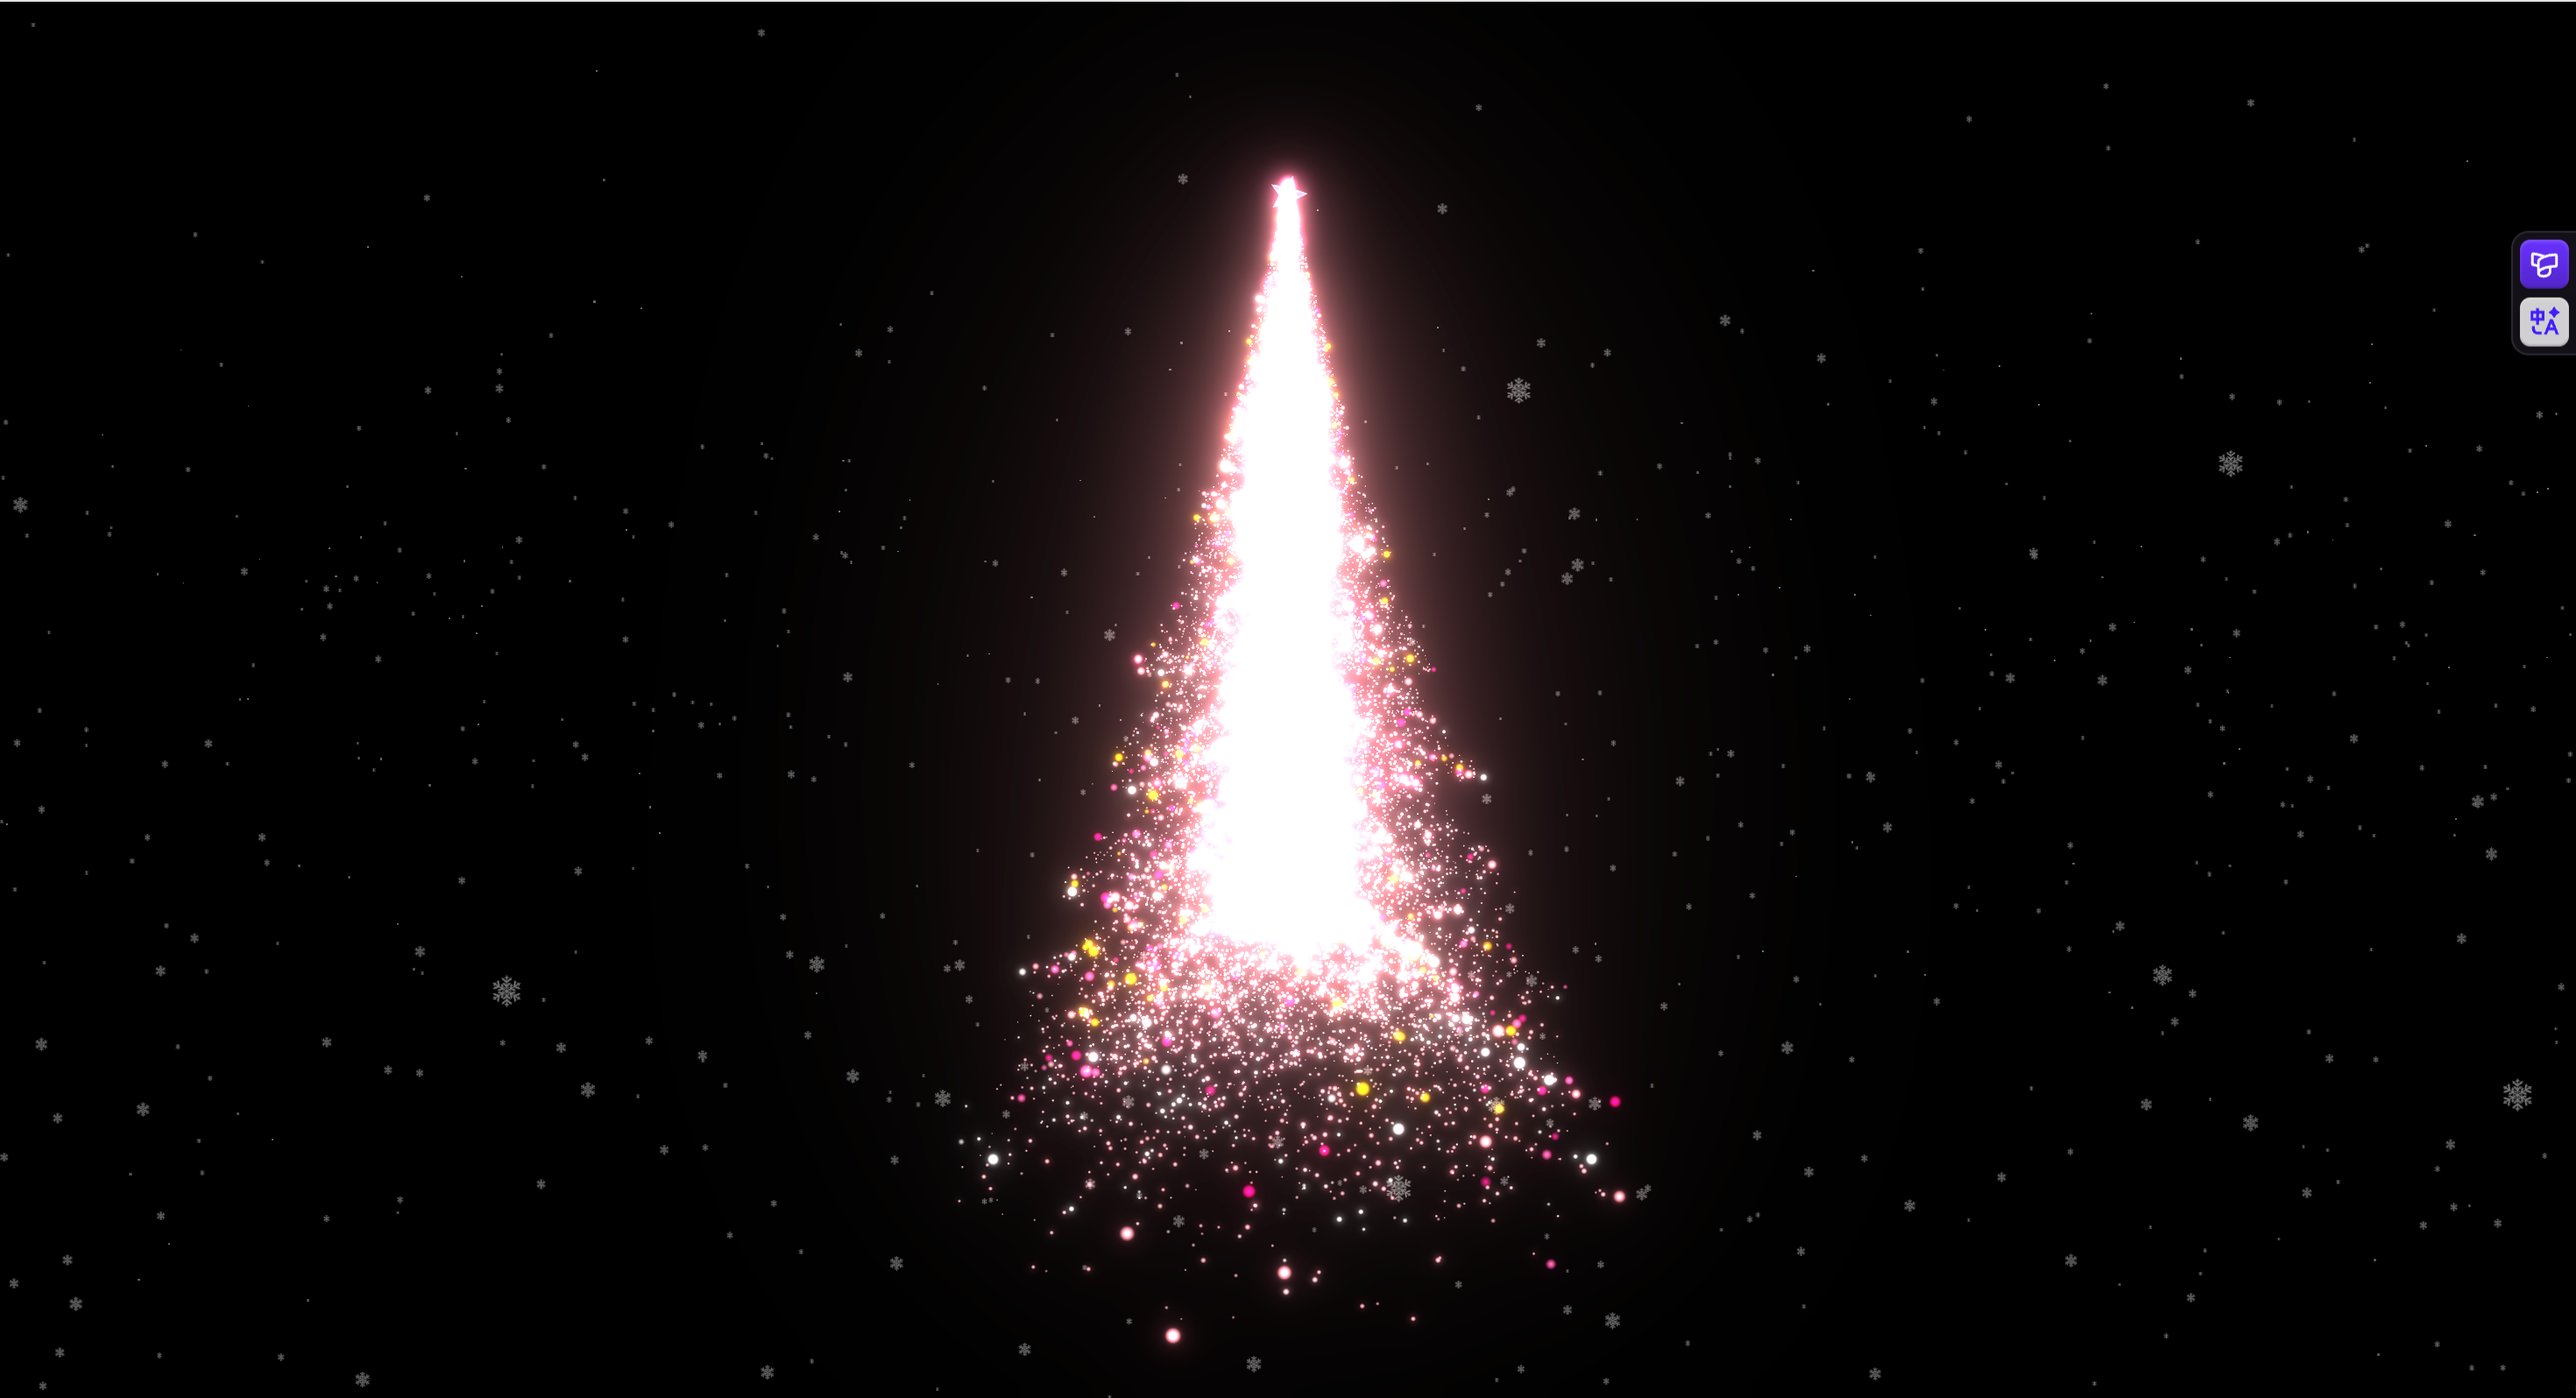
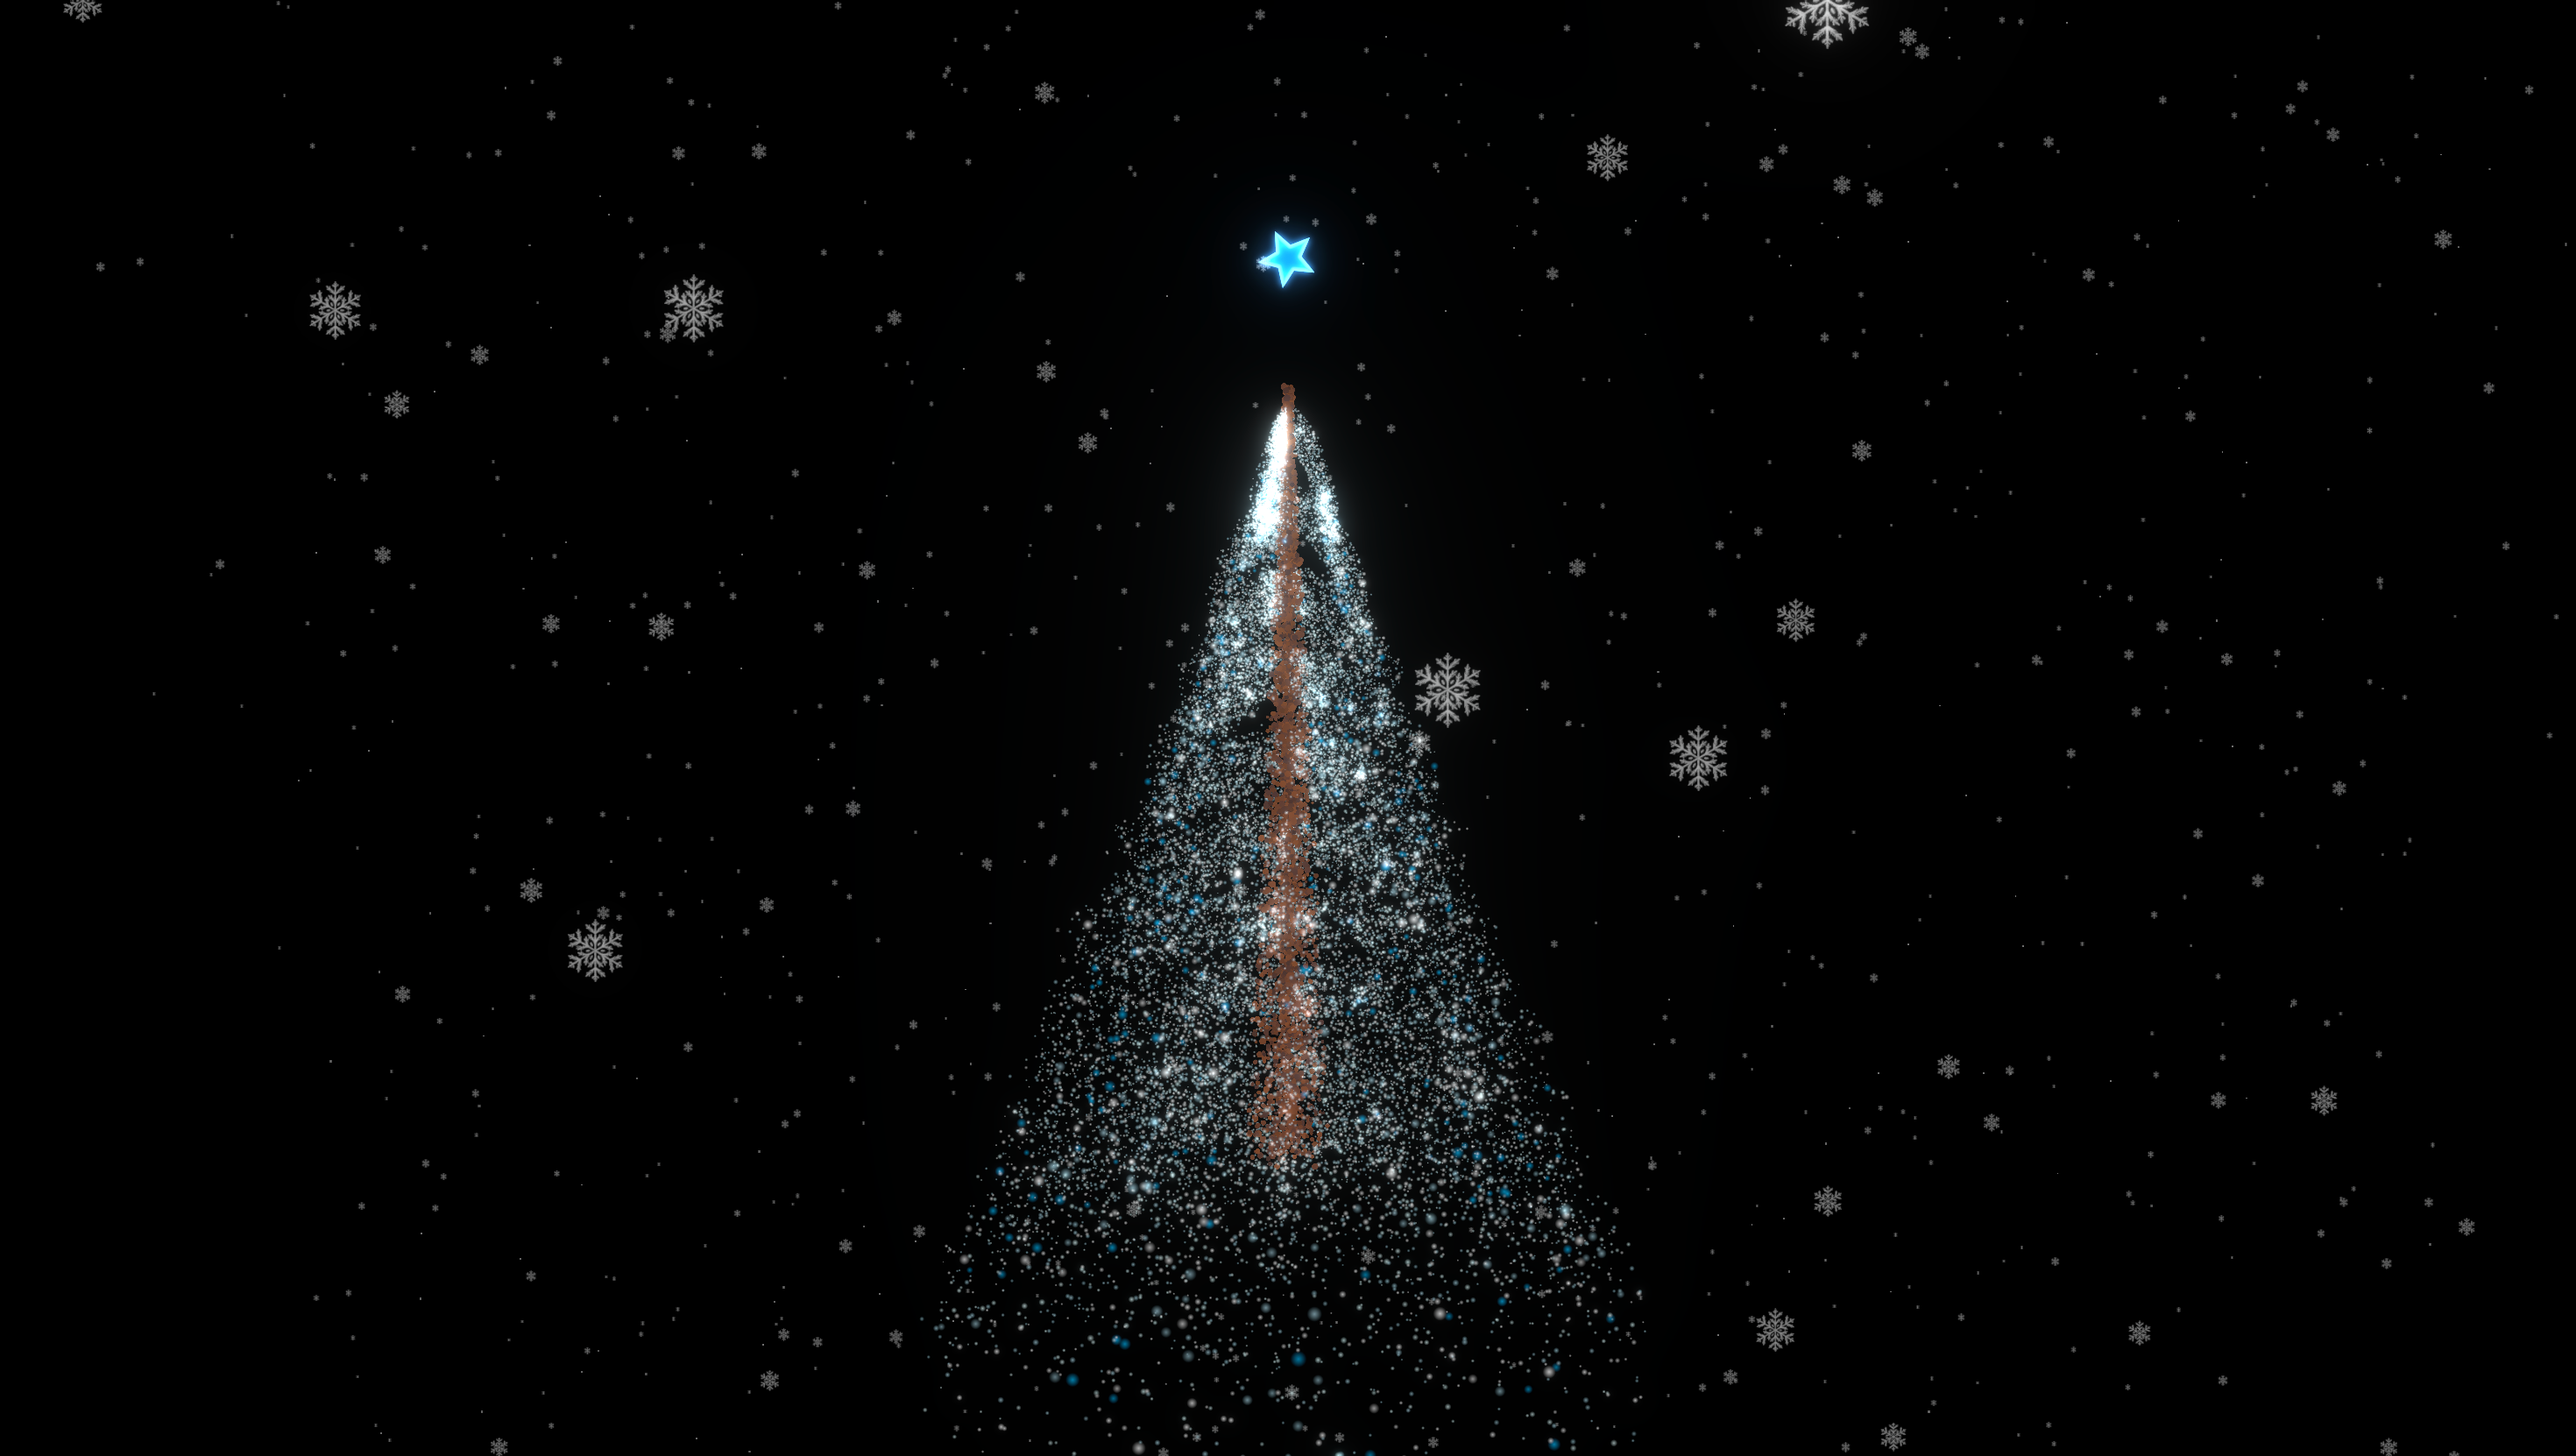
修改树干问题, 以及树的形状微调

diff --git a/src/webgl/tree.js b/src/webgl/tree.js
@@ -186,11 +186,16 @@ export class ChristmasTree {
     }
 
     generateTree() {
-        // ... (rest of generateTree stays the same, I already modified the beginning in the previous step)
+        // Clear previous if any
+        if (this.foliagePoints) this.treeObject.remove(this.foliagePoints);
+        if (this.ornamentPoints) this.treeObject.remove(this.ornamentPoints);
+        if (this.starPoint) this.treeObject.remove(this.starPoint);
+        if (this.trunkPoints) this.treeObject.remove(this.trunkPoints);
+
         // Tree parameters
-        const layerCount = 7;
+        const layerCount = 10; // Increased layers for smoother profile
         // Layers overlap significantly to look dense
-        const layerHeight = this.treeHeight / 3.0;
+        const layerHeight = this.treeHeight / layerCount;
 
         const foliagePos = [];
         const foliageColors = [];
@@ -201,59 +206,131 @@ export class ChristmasTree {
         const ornamentColors = [];
         const ornamentSizes = [];
         const ornamentPhases = [];
+        
+        const trunkPos = [];
+        const trunkColors = [];
+        const trunkSizes = [];
+        const trunkPhases = [];
 
         const color = new THREE.Color();
 
-        // Generate Layers
+        // --- 1. Generate Trunk (Central Column - Subtle & Ghostly) ---
+        const trunkParticles = Math.floor(this.particleCount * 0.08); // Reduced count
+        const trunkHeight = this.treeHeight * 0.6; 
+        const trunkRadius = 0.2;
+
+        for (let i = 0; i < trunkParticles; i++) {
+            const h = Math.random() * this.treeHeight * 0.9;
+            // More scatter for a "dusty" core look, not a solid pipe
+            const r = Math.pow(Math.random(), 0.5) * trunkRadius * (1.0 - h / this.treeHeight);
+            const theta = Math.random() * Math.PI * 2;
+
+            const x = r * Math.cos(theta);
+            const z = r * Math.sin(theta);
+            const y = h - this.treeHeight / 2;
+
+            trunkPos.push(x, y, z);
+            
+            // Subtle, dark core colors (Deep amber/brown) to anchor the light
+            // Kept very dark to allow additive blending to just hint at structure
+            const barkColor = new THREE.Color(0x503010).multiplyScalar(0.4); 
+            
+            trunkColors.push(barkColor.r, barkColor.g, barkColor.b);
+            
+            // Varied sizes, mostly small
+            trunkSizes.push(0.02 + Math.random() * 0.03);
+            trunkPhases.push(Math.random() * Math.PI * 2);
+        }
+
+        // --- 2. Generate Foliage (Branches - Voluminous & Sparkling) ---
+        const foliageParticlesTotal = this.particleCount;
+        
         for (let l = 0; l < layerCount; l++) {
-            const t = l / (layerCount - 1); // 0 at bottom, 1 at top
-            const layerY = (this.treeHeight * 0.8) * t; // Spread layers up
-            const currentRadius = this.baseRadius * (1.0 - t * 0.8); // Radius tapers
+            const t = l / (layerCount - 1); 
+            const layerY = (this.treeHeight * 0.85) * t; 
+            const maxBranchRadius = this.baseRadius * (1.0 - t * 0.85); 
 
-            // Foliage for this layer
-            // Distribute particles within the cone of this layer
-            const particlesPerLayer = Math.floor(this.particleCount / layerCount);
+            const branchCount = Math.floor(9 - t * 6); 
+            const layerOffset = l * 1.5; 
 
-            // Taper size near top to prevent glare
-            // t goes from 0 (bottom) to 1 (top)
-            const sizeFactor = 1.0 - t * 0.4; // 1.0 at bottom, 0.6 at top
+            const particlesPerLayer = Math.floor(foliageParticlesTotal / layerCount);
 
             for (let i = 0; i < particlesPerLayer; i++) {
-                // Random point in cone
-                const h = Math.random() * layerHeight;
-                const rRatio = Math.sqrt(Math.random()); // Even areal distribution
-                const r = rRatio * currentRadius * (1 - h / layerHeight);
-                const theta = Math.random() * Math.PI * 2;
+                const branchIndex = Math.floor(Math.random() * branchCount);
+                const branchAngleBase = (branchIndex / branchCount) * Math.PI * 2 + layerOffset;
 
-                const x = r * Math.cos(theta);
-                const z = r * Math.sin(theta);
-                const y = layerY + h - this.treeHeight / 2; // Centered vertically
+                const rNorm = Math.pow(Math.random(), 0.7); // Less biased to tips, fill volume more
+                const r = rNorm * maxBranchRadius;
 
-                // Add to foliage
+                // Increased spread for fluffier branches
+                // Add "Air" to the tree
+                const spread = 0.6 + rNorm * 0.6; 
+                const angle = branchAngleBase + (Math.random() - 0.5) * spread;
+
+                const droop = Math.pow(rNorm, 2.0) * 0.5; 
+
+                // Thicker branches vertically
+                const branchThickness = 0.2 + rNorm * 0.2;
+                const h = (Math.random() - 0.5) * branchThickness;
+
+                // Add significant random jitter to break lines
+                const jitter = 0.12; 
+                const jx = (Math.random() - 0.5) * jitter;
+                const jy = (Math.random() - 0.5) * jitter;
+                const jz = (Math.random() - 0.5) * jitter;
+
+                const x = r * Math.cos(angle) + jx;
+                const z = r * Math.sin(angle) + jz;
+                const y = layerY + h - droop - this.treeHeight / 2 + jy;
+
                 foliagePos.push(x, y, z);
-
-                // Initial Base Foliage Color (Placeholder, will be overwritten by _applyTheme)
-                foliageColors.push(1, 1, 1);
-
-                foliageSizes.push((0.025 + Math.random() * 0.03) * sizeFactor);
+                foliageColors.push(1, 1, 1); 
+                
+                // Varied particle sizes for "Texture"
+                // Some tiny "dust", some larger leaves
+                const sizeFactor = 1.0 - t * 0.3;
+                let pSize = 0.0;
+                if (Math.random() < 0.3) {
+                    pSize = (0.01 + Math.random() * 0.02) * sizeFactor; // Tiny dust
+                } else {
+                    pSize = (0.04 + Math.random() * 0.04) * sizeFactor; // Main leaf
+                }
+                foliageSizes.push(pSize);
                 foliagePhases.push(Math.random() * Math.PI * 2);
 
-                // Chance to add an ornament at the edge (surface)
-                // Ornaments are denser at the tips of the branches (max radius for height)
-                if (Math.random() < 0.12 && r > currentRadius * (1 - h / layerHeight) * 0.8) {
-                    // Push ornament at the same position (or slightly out)
-                    ornamentPos.push(x * 1.05, y, z * 1.05);
-
-                    // Placeholder color, will be set by theme
+                // --- Ornaments ---
+                if (Math.random() < 0.08 && rNorm > 0.5) {
+                    ornamentPos.push(x, y - 0.05, z);
                     ornamentColors.push(1, 1, 1);
-
-                    ornamentSizes.push((0.09 + Math.random() * 0.04) * sizeFactor); // Larger
+                    ornamentSizes.push((0.10 + Math.random() * 0.05) * sizeFactor);
                     ornamentPhases.push(Math.random() * Math.PI * 2);
                 }
             }
         }
 
-        // --- Create Foliage Mesh ---
+        // --- Create Meshes ---
+
+        // 1. Trunk - Now with Additive Blending for "Ghostly" look
+        const trunkGeo = new THREE.BufferGeometry();
+        trunkGeo.setAttribute('position', new THREE.Float32BufferAttribute(trunkPos, 3));
+        trunkGeo.setAttribute('color', new THREE.Float32BufferAttribute(trunkColors, 3));
+        trunkGeo.setAttribute('size', new THREE.Float32BufferAttribute(trunkSizes, 1));
+        trunkGeo.setAttribute('phase', new THREE.Float32BufferAttribute(trunkPhases, 1));
+        
+        const trunkMaterial = new THREE.ShaderMaterial({
+            uniforms: this.uniforms,
+            vertexShader: vertexShader,
+            fragmentShader: fragmentShader,
+            vertexColors: true,
+            transparent: true,      // Changed back to true
+            blending: THREE.AdditiveBlending, // Changed to Additive
+            depthWrite: false       // Changed to false
+        });
+        
+        this.trunkPoints = new THREE.Points(trunkGeo, trunkMaterial);
+        this.treeObject.add(this.trunkPoints);
+
+        // 2. Foliage
         const foliageGeo = new THREE.BufferGeometry();
         foliageGeo.setAttribute('position', new THREE.Float32BufferAttribute(foliagePos, 3));
         foliageGeo.setAttribute('color', new THREE.Float32BufferAttribute(foliageColors, 3));
@@ -273,14 +350,13 @@ export class ChristmasTree {
         this.foliagePoints = new THREE.Points(foliageGeo, foliageMaterial);
         this.treeObject.add(this.foliagePoints);
 
-        // --- Create Ornament Mesh ---
+        // 3. Ornaments
         const ornamentGeo = new THREE.BufferGeometry();
         ornamentGeo.setAttribute('position', new THREE.Float32BufferAttribute(ornamentPos, 3));
         ornamentGeo.setAttribute('color', new THREE.Float32BufferAttribute(ornamentColors, 3));
         ornamentGeo.setAttribute('size', new THREE.Float32BufferAttribute(ornamentSizes, 1));
         ornamentGeo.setAttribute('phase', new THREE.Float32BufferAttribute(ornamentPhases, 1));
 
-        // Use same shader for now, will upgrade later
         const ornamentMaterial = new THREE.ShaderMaterial({
             uniforms: this.uniforms,
             vertexShader: vertexShader,
@@ -294,10 +370,10 @@ export class ChristmasTree {
         this.ornamentPoints = new THREE.Points(ornamentGeo, ornamentMaterial);
         this.treeObject.add(this.ornamentPoints);
 
-        // --- Create Star Mesh (Top of Tree) ---
-        const starPos = [0, this.treeHeight / 2 + 0.35, 0]; // Keep high position
-        const starColors = [1.0, 0.1, 0.3]; // Ruby Red, distinct from tree
-        const starSizes = [0.8]; // Increased size to show shape clearly
+        // 4. Star
+        const starPos = [0, this.treeHeight / 2 + 0.15, 0]; // Adjusted height
+        const starColors = [1.0, 0.1, 0.3];
+        const starSizes = [0.9]; 
         const starPhases = [0.0];
 
         const starGeo = new THREE.BufferGeometry();
